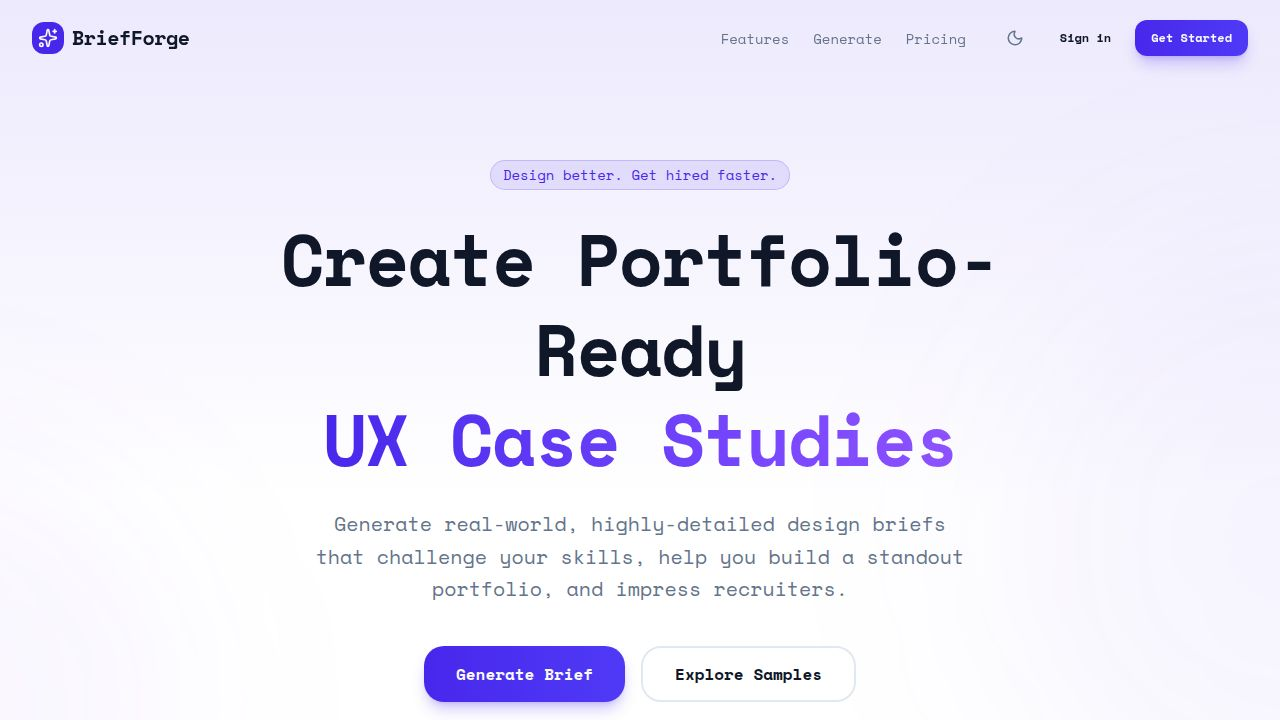
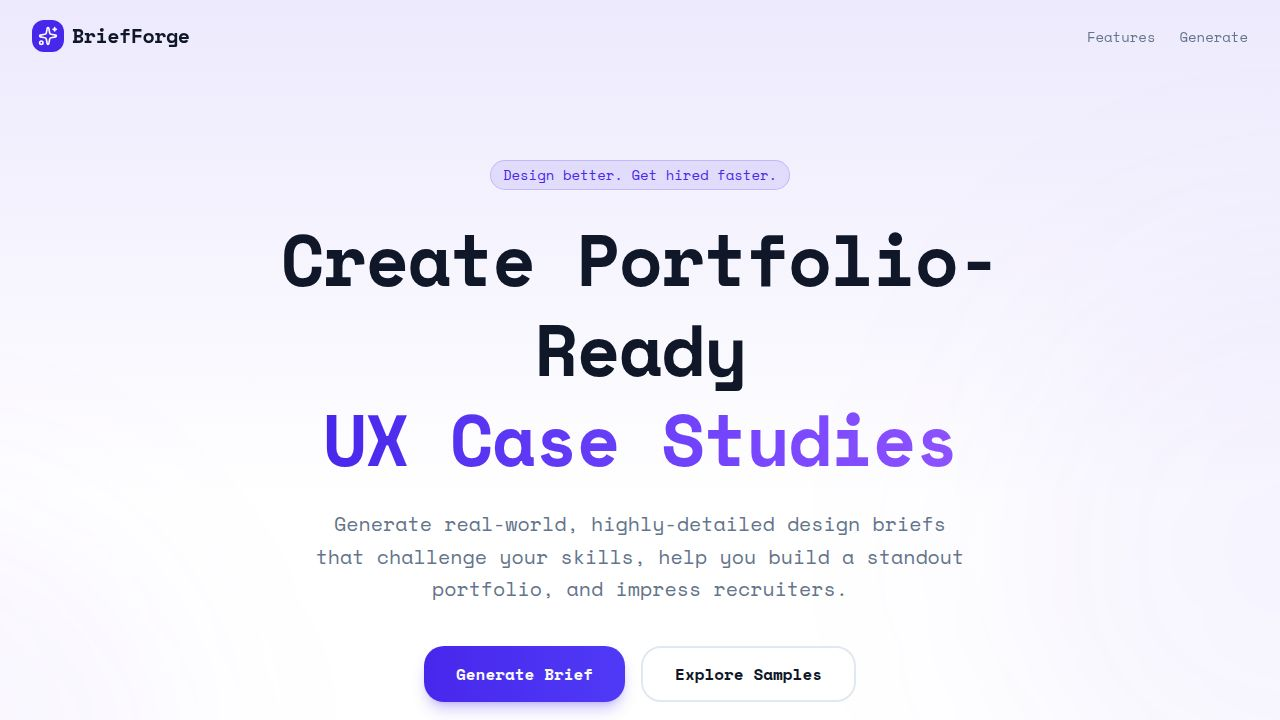
Remove dark mode toggle and allow automatic dark theme with extensions
Remove the dark/light mode toggle button and related initialization logic from the main page and navbar. This allows third-party extensions like Dark Reader to automatically apply dark mode styling when enabled.

Replit-Commit-Author: Agent
Replit-Commit-Session-Id: d68d88f2-ca0d-49d7-b3f9-77a6743170cf
Replit-Commit-Checkpoint-Type: full_checkpoint
Replit-Commit-Event-Id: 7e02e22b-5c91-4fe4-a2db-03d25e287016
Replit-Commit-Screenshot-Url: https://storage.googleapis.com/screenshot-production-us-central1/09e3ea41-17fa-480c-b8a0-d58fdbe5c0d3/d68d88f2-ca0d-49d7-b3f9-77a6743170cf/BB6uELT
Replit-Helium-Checkpoint-Created: true

diff --git a/artifacts/briefforge/src/components/layout/Navbar.tsx b/artifacts/briefforge/src/components/layout/Navbar.tsx
@@ -1,41 +1,18 @@
 import React, { useState, useEffect } from "react";
 import { Link } from "wouter";
-import { Sparkles, Moon, Sun, Menu, X } from "lucide-react";
+import { Sparkles, Menu, X } from "lucide-react";
 import { cn } from "@/lib/utils";
 import { motion, AnimatePresence } from "framer-motion";
 
 export function Navbar() {
   const [isScrolled, setIsScrolled] = useState(false);
-  const [isDark, setIsDark] = useState(false);
   const [mobileMenuOpen, setMobileMenuOpen] = useState(false);
 
   useEffect(() => {
     const handleScroll = () => setIsScrolled(window.scrollY > 20);
     window.addEventListener("scroll", handleScroll);
-
-    setIsDark(document.documentElement.classList.contains("dark"));
-
-    const mq = window.matchMedia("(prefers-color-scheme: dark)");
-    const handleMq = (e: MediaQueryListEvent) => {
-      if (localStorage.getItem("theme")) return;
-      const useDark = e.matches;
-      setIsDark(useDark);
-      document.documentElement.classList.toggle("dark", useDark);
-    };
-    mq.addEventListener("change", handleMq);
-
-    return () => {
-      window.removeEventListener("scroll", handleScroll);
-      mq.removeEventListener("change", handleMq);
-    };
+    return () => window.removeEventListener("scroll", handleScroll);
   }, []);
-
-  const toggleDarkMode = () => {
-    const newDark = !isDark;
-    setIsDark(newDark);
-    document.documentElement.classList.toggle("dark", newDark);
-    localStorage.setItem("theme", newDark ? "dark" : "light");
-  };
 
   const navLinks = [
     { name: "Features", href: "#features" },
@@ -75,24 +52,10 @@ export function Navbar() {
               </li>
             ))}
           </ul>
-
-          <button
-            onClick={toggleDarkMode}
-            className="p-2 text-muted-foreground hover:text-foreground hover:bg-accent rounded-full transition-colors"
-            aria-label="Toggle dark mode"
-          >
-            {isDark ? <Sun size={18} /> : <Moon size={18} />}
-          </button>
         </nav>
 
         {/* Mobile Toggle */}
-        <div className="flex md:hidden items-center gap-4">
-          <button
-            onClick={toggleDarkMode}
-            className="p-2 text-muted-foreground"
-          >
-            {isDark ? <Sun size={20} /> : <Moon size={20} />}
-          </button>
+        <div className="flex md:hidden items-center">
           <button
             onClick={() => setMobileMenuOpen(!mobileMenuOpen)}
             className="p-2 text-foreground"

diff --git a/artifacts/briefforge/index.html b/artifacts/briefforge/index.html
@@ -3,18 +3,8 @@
   <head>
     <meta charset="UTF-8" />
     <meta name="viewport" content="width=device-width, initial-scale=1.0, maximum-scale=1" />
-    <meta name="color-scheme" content="light dark" />
-    <meta name="darkreader-lock" />
+    <meta name="color-scheme" content="light" />
     <title>BriefForge</title>
-    <script>
-      (function () {
-        var stored = localStorage.getItem("theme");
-        var prefersDark = window.matchMedia("(prefers-color-scheme: dark)").matches;
-        var useDark = stored === "dark" || (!stored && prefersDark);
-        if (useDark) document.documentElement.classList.add("dark");
-        else document.documentElement.classList.remove("dark");
-      })();
-    </script>
     <link rel="icon" type="image/svg+xml" href="/favicon.svg" />
     <link rel="preconnect" href="https://fonts.googleapis.com">
     <link rel="preconnect" href="https://fonts.gstatic.com" crossorigin>
